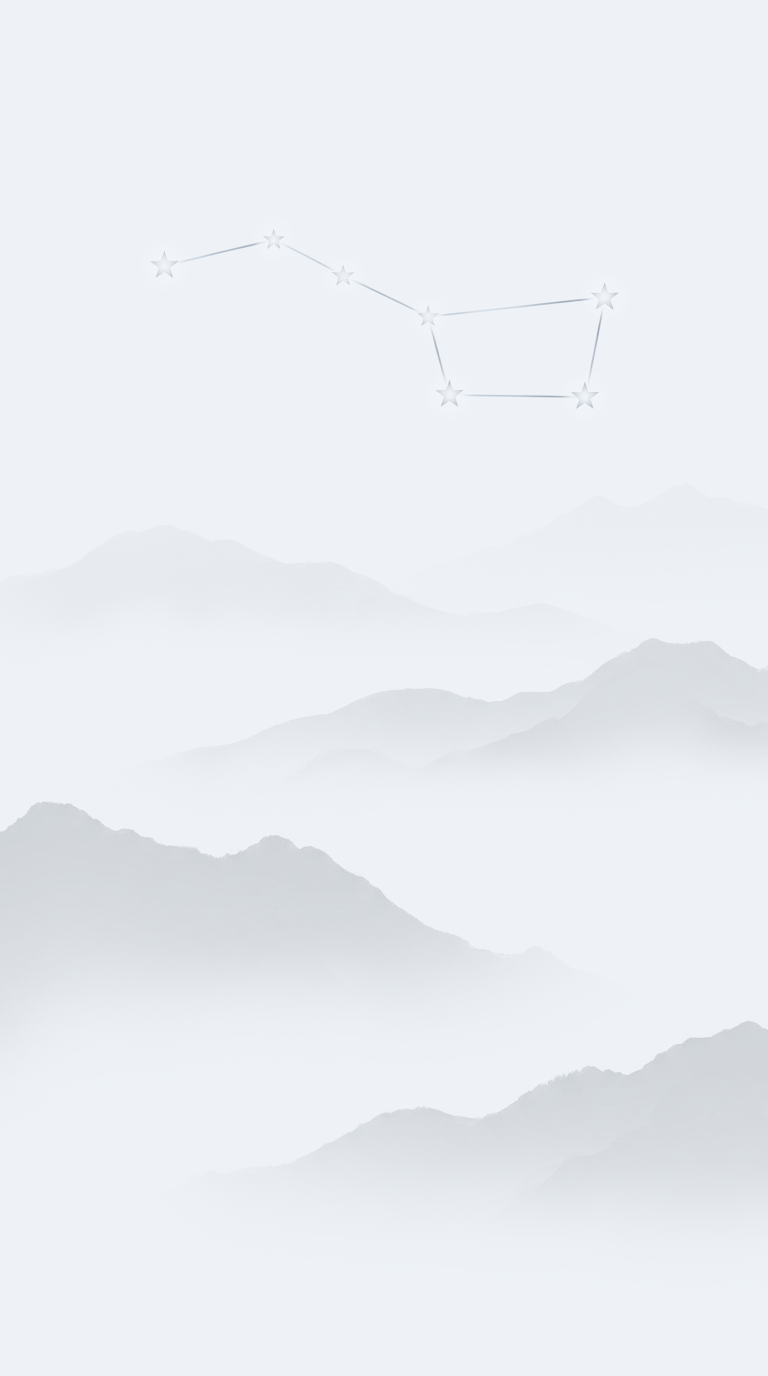
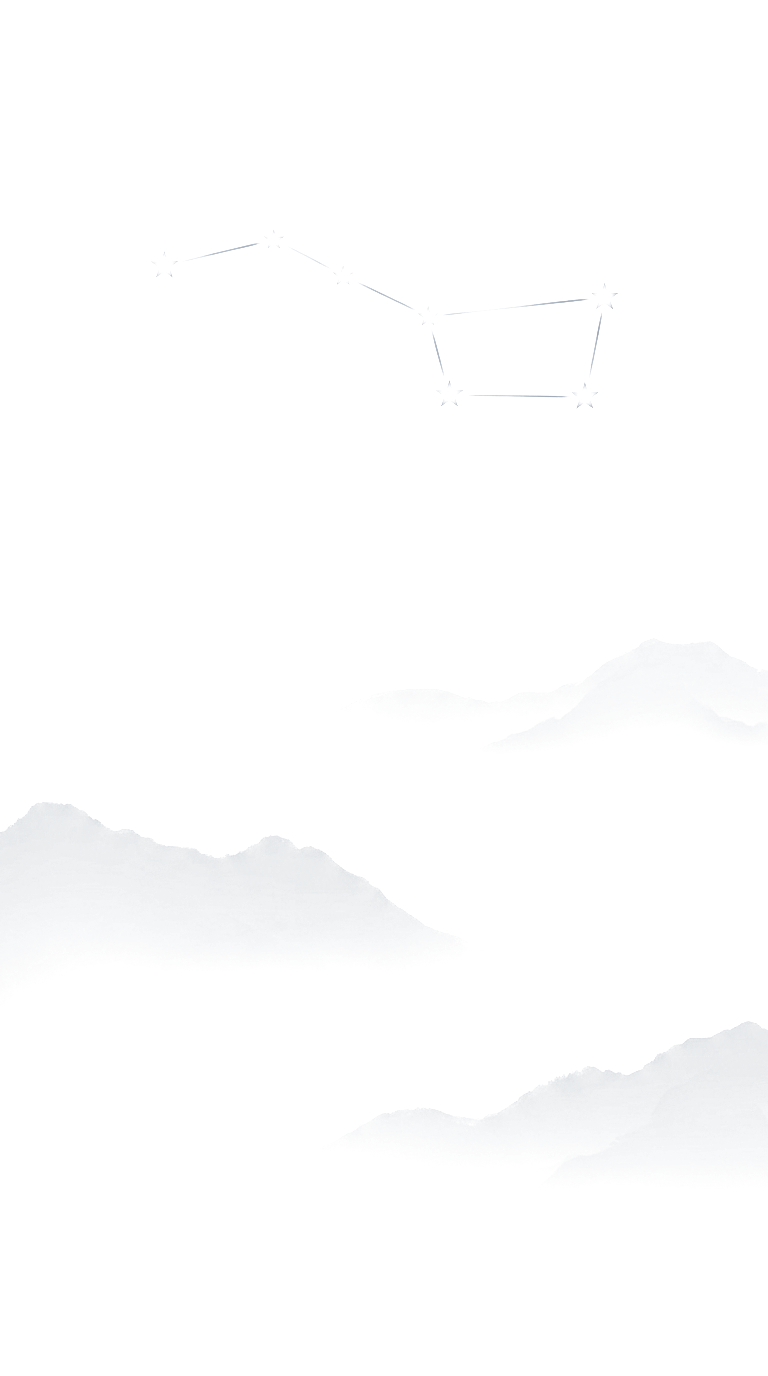
fix(web): all mountain PNGs converted to transparent background
Background pixels removed via color-distance alpha mapping.
Mountains back to inset:0 (full height) since no color mismatch.
Dark: 64% transparent, Light: 89%, Classical: 78%.

diff --git a/packages/web/src/index.css b/packages/web/src/index.css
@@ -139,8 +139,7 @@
 [data-theme="dark"] aside.border-r::after {
   content: '';
   position: absolute;
-  bottom: 0; left: 0; right: 0;
-  height: 60%;
+  inset: 0;
   background: url('/classical/ink-mountains-dark.png') no-repeat bottom center;
   background-size: 100% auto;
   opacity: 0.5;
@@ -241,8 +240,7 @@
 [data-theme="light"] aside.border-r::after {
   content: '';
   position: absolute;
-  bottom: 0; left: 0; right: 0;
-  height: 60%;
+  inset: 0;
   background: url('/classical/ink-mountains-light.png') no-repeat bottom center;
   background-size: 100% auto;
   opacity: 0.4;
@@ -387,8 +385,7 @@ body,
 [data-theme="classical"] aside.border-r::after {
   content: '';
   position: absolute;
-  bottom: 0; left: 0; right: 0;
-  height: 60%;
+  inset: 0;
   background-image: url('/classical/ink-mountains.png');
   background-repeat: no-repeat;
   background-position: bottom center;
